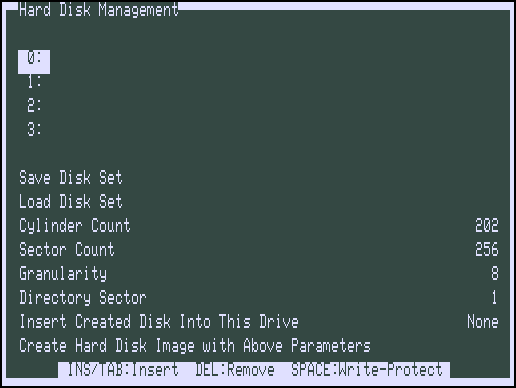
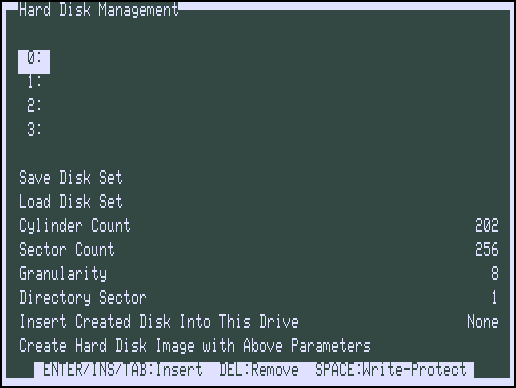
Add key to GUI help message

Changed region(s): [[0.062, 0.9278, 0.8372, 0.9897], [0.8682, 0.9278, 0.9302, 0.9897]]

diff --git a/src/trs_sdl_gui.c b/src/trs_sdl_gui.c
@@ -887,7 +887,7 @@ int trs_gui_display_menu(const char *title, MENU_ENTRY *entry, int selection)
   trs_gui_frame(0, 0, 63, 15);
   trs_gui_write_text(title, 2, 0, 0);
   if (strstr(title, "Man"))
-    trs_gui_center_text(" INS/TAB:Insert  DEL:Remove  SPACE:Write-Protect ", 15, 1);
+    trs_gui_center_text(" ENTER/INS/TAB:Insert  DEL:Remove  SPACE:Write-Protect ", 15, 1);
 
   while (entry[num].type != 0) {
     trs_gui_write_text(entry[num].text, 2, num + 2, 0);
